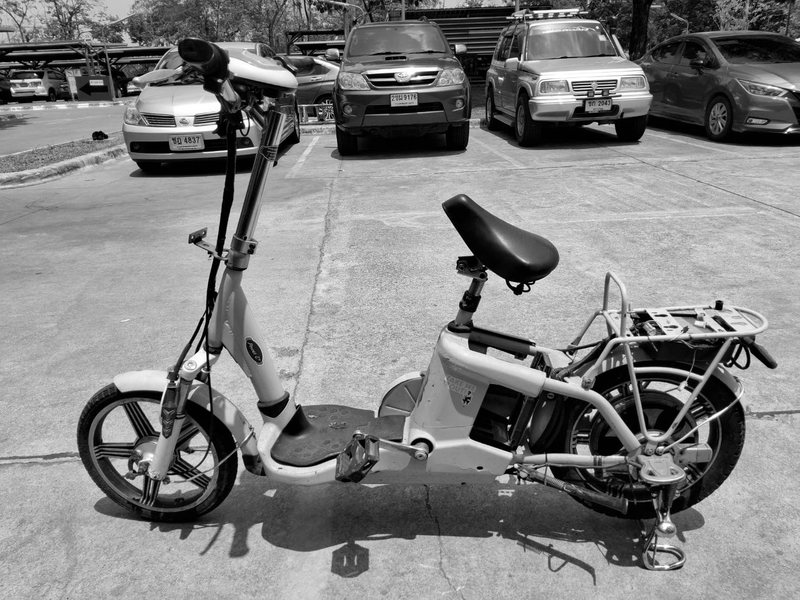
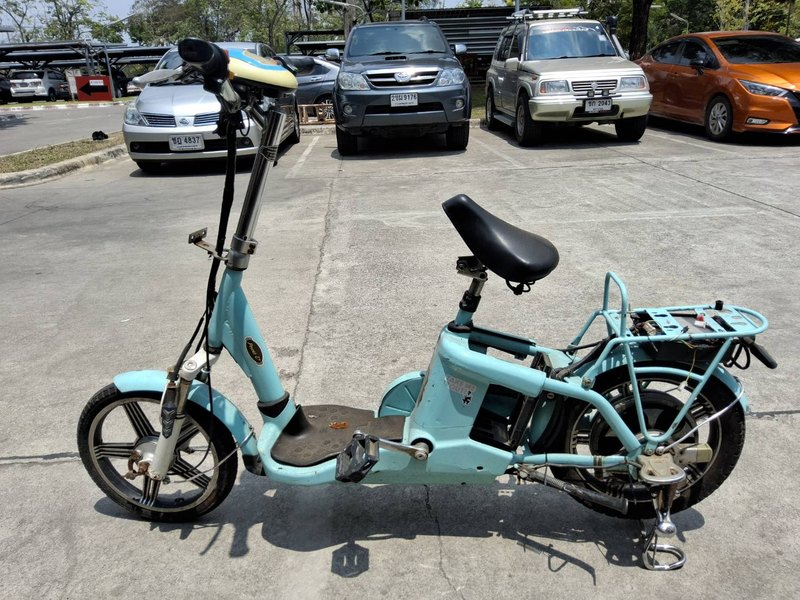
Add files via upload

diff --git a/vehicle-history-pdf.js b/vehicle-history-pdf.js
@@ -117,7 +117,7 @@
                 if (!(u.protocol === 'https:' || (u.protocol === 'http:' && u.origin === new URL(base).origin)) || u.username || u.password || /(^|\/)images\/default\.jpg$/i.test(u.pathname)) return [];
                 // The downloaded copies use only these exact public attachment IDs. Never fall back to another vehicle.
                 const attachment = u.hostname === 'github.com' && /^\/user-attachments\/assets\/([a-f0-9-]{36})\/?$/i.exec(u.pathname);
-                if (attachment) return [new URL('photos/'+attachment[1].toLowerCase()+'.jpg',bundled).href,u.href];
+                if (attachment) return [new URL('photos/'+attachment[1].toLowerCase()+'.jpg?v=color-20261124',bundled).href,u.href];
                 if (u.hostname !== 'drive.google.com') return [u.href];
                 const id = u.searchParams.get('id') || /\/d\/([\w-]+)/.exec(u.pathname)?.[1];
                 if (!/^[\w-]{8,}$/.test(id || '')) return [u.href];
@@ -140,14 +140,10 @@
                     const canvas = document.createElement('canvas');
                     canvas.width = Math.max(1,Math.round(image.naturalWidth*scale));
                     canvas.height = Math.max(1,Math.round(image.naturalHeight*scale));
-                    const ctx = canvas.getContext('2d',{willReadFrequently:true});
+                    const ctx = canvas.getContext('2d');
                     ctx.fillStyle = '#fff'; ctx.fillRect(0,0,canvas.width,canvas.height);
                     ctx.drawImage(image,0,0,canvas.width,canvas.height);
-                    const frame = ctx.getImageData(0,0,canvas.width,canvas.height);
-                    for (let i=0;i<frame.data.length;i+=4) {
-                        frame.data[i] = frame.data[i+1] = frame.data[i+2] = Math.round(0.299*frame.data[i]+0.587*frame.data[i+1]+0.114*frame.data[i+2]);
-                    }
-                    ctx.putImageData(frame,0,0); finish(canvas.toDataURL('image/jpeg',0.86));
+                    finish(canvas.toDataURL('image/jpeg',0.86));
                 } catch (_) {finish(null);}
             };
             image.src = url;
@@ -240,13 +236,59 @@
         setTimeout(()=>URL.revokeObjectURL(href),30000);
         return Boolean(photo) ? 'with-photo' : 'without-photo';
     }
-    function drawHistory(target, report) {
-        const wrap = document.createElement('div'); wrap.className='table-responsive';
-        const table = document.createElement('table'); table.className='table table-sm table-bordered align-middle text-center text-nowrap mb-0';
-        const head=table.createTHead().insertRow(); columns.forEach(name=>{const cell=document.createElement('th');cell.scope='col';cell.textContent=name;head.append(cell);});
-        const body=table.createTBody();
-        report.rows.forEach(r=>{const tr=body.insertRow();r.labels.forEach(s=>{const cell=tr.insertCell();cell.textContent=s;});});
-        wrap.append(table); target.replaceChildren(wrap);
+    function drawHistory(target, report, year) {
+        const wrap=document.createElement('div');wrap.className='table-responsive border rounded';
+        const table=document.createElement('table');
+        table.className='table table-bordered text-center align-middle mb-0 text-nowrap';
+        table.style.fontSize='11px';
+        const top=table.createTHead();top.className='table-light';
+        const headers=['ด/ป',...checks.map(x=>x[1]==='แบตเตอรี่'?'แบตฯ':x[1]==='เครื่องยนต์'?'เครื่อง':x[1]),'สถานะ','ผู้ตรวจ'];
+        const head=top.insertRow();
+        headers.forEach(name=>{
+            const th=document.createElement('th');th.scope='col';th.textContent=name;
+            th.className='fw-normal px-1 py-2';head.append(th);
+        });
+        const body=table.createTBody(), suffix=String(year+543).slice(-2);
+        report.rows.forEach(({labels},i)=>{
+            const [,date,...fields]=labels;
+            const items=fields.slice(0,checks.length);
+            const [overall,inspector]=fields.slice(checks.length);
+            const contradictory=overall==='ใช้งานได้'&&items.includes('ผิดปกติ');
+            const status=contradictory?'ต้องตรวจสอบ':overall;
+            const tr=body.insertRow();
+            if(status==='ใช้งานได้')tr.className='table-success';
+            if(status==='พบข้อบกพร่อง')tr.className='table-danger';
+            const month=document.createElement('th');month.scope='row';month.className='fw-normal px-1 py-2';
+            month.textContent=shortMonths[i]+' '+suffix;
+            month.title=labels[0]+' พ.ศ. '+(year+543)+(date==='-'?' · ยังไม่มีผลตรวจ':' · ตรวจล่าสุด '+date);
+            month.setAttribute('aria-label',month.title);tr.append(month);
+            items.forEach((result,k)=>{
+                const cell=tr.insertCell();cell.className='px-1 py-2';
+                if(result==='ปกติ'||result==='ผิดปกติ'){
+                    const icon=document.createElement('span'),normal=result==='ปกติ';
+                    icon.textContent=normal?'✓':'✗';icon.className=normal?'text-success':'text-danger';
+                    icon.title=checks[k][1]+': '+result;
+                    icon.setAttribute('role','img');icon.setAttribute('aria-label',icon.title);cell.append(icon);
+                }else {
+                    cell.textContent='-';cell.className+=' text-secondary';
+                    cell.setAttribute('aria-label',checks[k][1]+': ไม่มีผลที่ยืนยันได้');
+                }
+            });
+            const state=tr.insertCell();state.className='px-1 py-2';
+            if(status==='ใช้งานได้'||status==='พบข้อบกพร่อง'){
+                const badge=document.createElement('span');badge.className='badge '+(status==='ใช้งานได้'?'text-bg-success':'text-bg-danger');
+                badge.textContent=status==='ใช้งานได้'?'ใช้งานได้':'ชำรุด';state.append(badge);
+            }else if(status==='ต้องตรวจสอบ'){
+                const badge=document.createElement('span');badge.className='badge text-bg-light border text-dark';
+                badge.textContent=status;state.append(badge);
+            }else {
+                state.textContent='-';state.className+=' text-secondary';
+                state.setAttribute('aria-label',status==='ไม่มีข้อมูล'?'ไม่มีผลตรวจในเดือนนี้':'ยังไม่ยืนยันสถานะ');
+            }
+            const who=tr.insertCell();who.className='text-truncate px-1 py-2';who.style.maxWidth='86px';
+            who.textContent=inspector||'-';if(inspector&&inspector!=='-')who.title=inspector;
+        });
+        wrap.append(table);target.replaceChildren(wrap);
     }
     async function open(vehicle, gasUrl) {
         const serial = ++generation;
@@ -277,7 +319,7 @@
             const show=()=>{
                 selectedYear=+year.value;
                 currentReport=reportRows(logs,selectedYear);
-                drawHistory(container,currentReport);
+                drawHistory(container,currentReport,selectedYear);
                 status.textContent=[
                     currentReport.undated?'มี '+currentReport.undated+' รายการที่ระบุวันที่ไม่ได้ ไม่นำมารวมในรายงานรายปี':'',
                     currentReport.ambiguous?'มี '+currentReport.ambiguous+' เดือนที่ยังยืนยันลำดับรายการล่าสุดไม่ได้':''

diff --git a/list.html b/list.html
@@ -153,7 +153,7 @@
     <script src="config.js"></script>
     <script src="inspection-date.js?v=1"></script>
     <script src="assets/vehicle-pdf/pdfmake.min.js" defer></script>
-    <script src="vehicle-history-pdf.js?v=2-month-latest"></script>
+    <script src="vehicle-history-pdf.js?v=3-popup-photo-color"></script>
     <script src="script.js?v=20261124-pdf1"></script>
 </body>
 </html>
